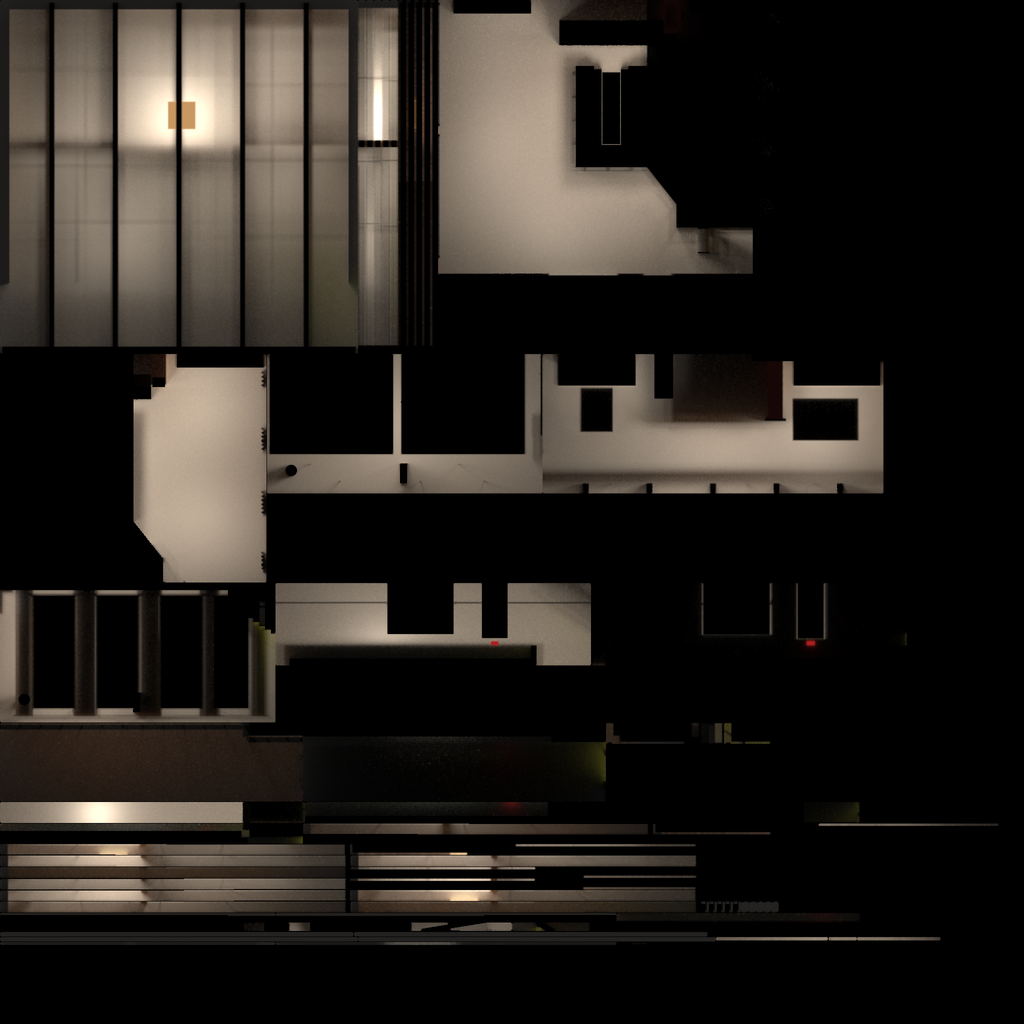
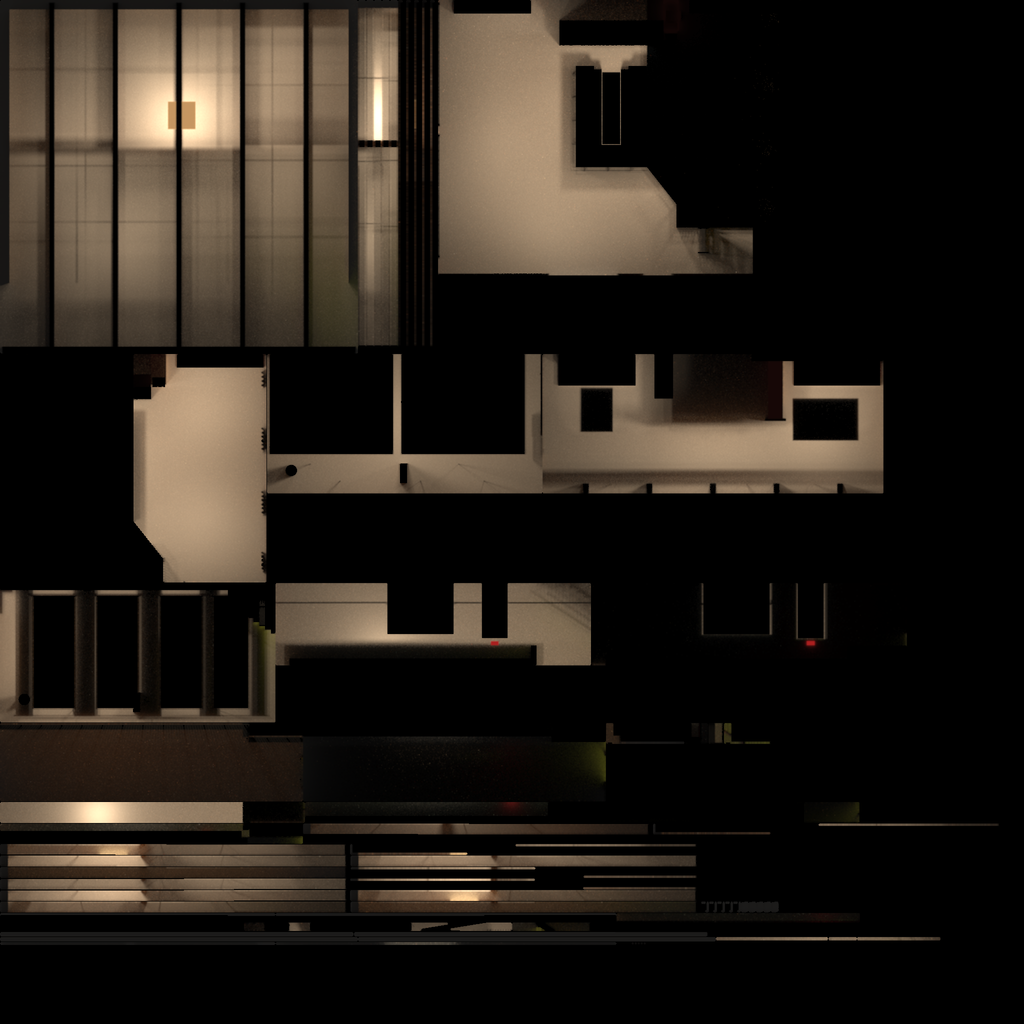
V2b: light rework: warm, deep evening; live shadows and placed lights on baked surfaces; bar contact shadows; a graphics setting that shows (LGT-03, LGT-01, PLT-05)
Owner (2026-10-19): the V2 evening was flat (uniform light brick, no warm bounce, missing bar shadows and AO, tone unlike R06/R08) and the graphics setting showed no difference.

- Baked surfaces: 8 % sky fill (was 35 %), 35 % of the live lights' direct light (was none).
- ACES filmic tone mapping; evening exposure 0.24, daylight 2.3.
- Evening bake at ~2400 K, crisper chandelier shadows, brighter, narrower track scallops and uplights, darker sky; warm evening tint on the buff brick.
- Evening key light from nearly overhead; contact shadows under the bar and back counter (instanced, no new draw).
- AO radius 0.55, stronger; full resolution and 4x MSAA with High on a desktop.

Claude-Session: https://claude.ai/code/session_011uuG6S5B44UFQf4qRyq7GE

diff --git a/src/scene/Studio3D.tsx b/src/scene/Studio3D.tsx
@@ -27,7 +27,7 @@ import {
   shadowDraws,
   uncapNextFrame,
 } from "./frames";
-import { BACKDROP, LED_GLOW, useMaterials } from "./materials";
+import { BACKDROP, BRICK_TINT, LED_GLOW, useMaterials } from "./materials";
 import { gradientTexture } from "./textures";
 import { BakeExport } from "./BakeExport";
 import { useBake } from "./useBake";
@@ -117,8 +117,10 @@ function Lighting({
       <directionalLight
         // A new tier's shadow size needs a new shadow map.
         key={shadowSize}
-        position={evening ? [W / 2 + 4, 14, D / 2 - 6] : [-12, 13, D / 2 - 3]}
-        intensity={evening ? 0.35 : 2.4}
+        // Evening: a warm light from nearly overhead, standing in for the chandeliers and track
+        // spots, so the bar and tables cast their shadows straight down (R06, R08).
+        position={evening ? [W / 2 + 1.5, 14, D / 2 - 1.5] : [-12, 13, D / 2 - 3]}
+        intensity={evening ? 1.1 : 2.4}
         color={evening ? "#ffdfc0" : "#fff4e6"}
         castShadow={shadowSize > 0}
         // Plan view is flat and high-contrast: no shadows (DESIGN_GUIDE §9).
@@ -189,15 +191,17 @@ function Effects({ evening, tier, quality }: { evening: boolean; tier: Tier; qua
   const moving = useStore(graphicsStore, (s) => s.moving);
   if (levers.direct) return null;
   const high = quality === "high";
+  // High draws its ambient occlusion at full resolution and smooths edges (V2b: the setting shows on
+  // a still picture, not only in motion); changing either rebuilds the effect passes once.
+  const best = tier === "high" && high;
   return (
-    // Multisampling by device too: changing it rebuilds every effect pass.
-    <EffectComposer multisampling={high ? 4 : 0}>
+    <EffectComposer multisampling={best ? 4 : 0}>
       <N8AO
         enabled={levers.ao === "live" || !moving}
-        aoRadius={0.7}
-        intensity={evening ? 2.2 : 1.6}
+        aoRadius={0.55}
+        intensity={evening ? 3.2 : 2.2}
         distanceFalloff={0.6}
-        halfRes
+        halfRes={!best}
       />
       <Bloom
         intensity={evening ? (high ? 0.75 : 0.7) : 0.15}
@@ -205,7 +209,7 @@ function Effects({ evening, tier, quality }: { evening: boolean; tier: Tier; qua
         luminanceSmoothing={high ? 0.2 : 0.03}
         mipmapBlur
       />
-      <ToneMapping mode={ToneMappingMode.AGX} />
+      <ToneMapping mode={ToneMappingMode.ACES_FILMIC} />
       <Vignette darkness={evening ? 0.42 : 0.2} offset={0.3} opacity={high ? 1 : 0} />
     </EffectComposer>
   );
@@ -425,11 +429,15 @@ function Scene({
   useEffect(() => {
     m.led.emissiveIntensity = evening ? LED_GLOW : 0;
     m.cap.emissiveIntensity = evening ? 0.12 : 0;
+    for (const brick of [m.brick, bake?.materials.brick])
+      (brick as THREE.MeshStandardMaterial | undefined)?.color.set(
+        evening ? BRICK_TINT.evening : BRICK_TINT.day,
+      );
     // Street sheers at night are lit only from inside: dimmer.
     m.sheer.opacity = evening ? 0.1 : 0.2;
     scene.backgroundIntensity = (evening ? BACKDROP.evening : BACKDROP.day).intensity;
     invalidate();
-  }, [m, scene, evening, invalidate]);
+  }, [m, bake, scene, evening, invalidate]);
   return (
     <>
       <primitive attach="background" object={background} />

diff --git a/src/scene/items/Contact.tsx b/src/scene/items/Contact.tsx
@@ -2,7 +2,8 @@ import * as THREE from "three";
 import { useEffect, useMemo } from "react";
 import { useThree } from "@react-three/fiber";
 import { chairsWorld } from "../../domain/layout/items";
-import { useView } from "../context";
+import type { VenueModel } from "../../domain/venue/model";
+import { useStudio, useView } from "../context";
 import { CONTACT_SPREAD, type Materials } from "../materials";
 import type { Placed } from "./common";
 
@@ -45,11 +46,40 @@ export function ContactShadows({ list, m }: { list: Contact[]; m: Materials }) {
   return <primitive object={mesh} />;
 }
 
-/** Contact shadows under the tables and their chairs; pieces being dragged are lifted, so none. */
+/**
+ * Contact shadows where the bar and the back counter meet the floor (V2b, Grounded). Long runs are a
+ * row of near-square shadows, so their soft edges fall only at the sides.
+ */
+function venueContacts(venue: VenueModel): Contact[] {
+  const [x0, z0, x1, z1] = venue.data.bar.outer.value;
+  const { legWidth: leg, frontDepth: front } = venue.data.bar;
+  const rc = venue.data.backBar.rearCounter;
+  const out: Contact[] = [];
+  const run = (ax: number, az: number, bx: number, bz: number) => {
+    const along = bx - ax > bz - az;
+    const [len, wid] = along ? [bx - ax, bz - az] : [bz - az, bx - ax];
+    const n = Math.max(1, Math.round(len / (wid * 1.2)));
+    for (let i = 0; i < n; i++) {
+      const c = -len / 2 + (len * (i + 0.5)) / n;
+      const [x, z] = along ? [(ax + bx) / 2 + c, (az + bz) / 2] : [(ax + bx) / 2, (az + bz) / 2 + c];
+      const [w, d] = along ? [len / n, wid] : [wid, len / n];
+      out.push({ x, z, y: 0, rotY: 0, w, d });
+    }
+  };
+  run(x0, z0, x0 + leg, z1);
+  run(x1 - leg, z0, x1, z1);
+  run(x0 + leg, z1 - front, x1 - leg, z1);
+  run(rc[0], rc[1], rc[2], rc[3]);
+  return out;
+}
+
+/** Contact shadows under the bar, the tables and their chairs; pieces being dragged are lifted, so none. */
 export function TableContacts({ placed, m }: { placed: Placed[]; m: Materials }) {
   const drag = useView((s) => s.drag);
+  const { venue } = useStudio();
+  const fixed = useMemo(() => venueContacts(venue), [venue]);
   const list = useMemo(() => {
-    const out: Contact[] = [];
+    const out: Contact[] = [...fixed];
     for (const p of placed) {
       if (drag?.ids.includes(p.item.id)) continue;
       const s = p.shape;
@@ -62,7 +92,7 @@ export function TableContacts({ placed, m }: { placed: Placed[]; m: Materials })
       for (const ch of chairsWorld(p.item, s)) out.push({ ...ch, y: p.y, w: SMALL, d: SMALL });
     }
     return out;
-  }, [placed, drag]);
+  }, [placed, drag, fixed]);
   return <ContactShadows list={list} m={m} />;
 }
 

diff --git a/src/scene/venue/bake.ts b/src/scene/venue/bake.ts
@@ -121,15 +121,21 @@ export function bakeAtlas(
 }
 
 /**
- * Share of the live ambient (sky) light a baked surface keeps: faces the bake leaves dark (a cut
- * wall's outer face, seen from the dollhouse) never turn into black pockets.
+ * Share of the live ambient (sky) light a baked surface keeps: just enough that faces the bake leaves
+ * dark (a cut wall's outer face, seen from the dollhouse) are not black, without flattening the
+ * bake's own falloff (V2b).
  */
-const BAKED_AMBIENT = 0.35;
+const BAKED_AMBIENT = 0.08;
+/**
+ * Share of the live lights' direct light a baked surface keeps (V2b): live shadows and the couple's
+ * placed lights show on the floor and walls, and the graphics tiers' shadows show there too.
+ */
+const LIVE_SHARE = 0.35;
 
 /**
- * A receiver's material with the light map: its diffuse light comes from the map (the live lights'
- * direct diffuse is dropped, as the bake holds it, and only `BAKED_AMBIENT` of the sky's), while live
- * highlights and reflections stay. Any shader patch the source has (`vary`) is kept.
+ * A receiver's material with the light map: its diffuse light comes mostly from the map, with
+ * `LIVE_SHARE` of the live lights' and `BAKED_AMBIENT` of the sky's; live highlights and reflections
+ * stay. Any shader patch the source has (`vary`) is kept.
  */
 export function bakedMaterial(
   src: THREE.MeshStandardMaterial,
@@ -144,7 +150,7 @@ export function bakedMaterial(
     src.onBeforeCompile(s, r);
     s.fragmentShader = s.fragmentShader.replace(
       "#include <lights_fragment_maps>",
-      `irradiance *= ${BAKED_AMBIENT.toFixed(2)};\nreflectedLight.directDiffuse = vec3(0.0);\n#include <lights_fragment_maps>\niblIrradiance = vec3(0.0);`,
+      `irradiance *= ${BAKED_AMBIENT.toFixed(2)};\nreflectedLight.directDiffuse *= ${LIVE_SHARE.toFixed(2)};\n#include <lights_fragment_maps>\niblIrradiance = vec3(0.0);`,
     );
   };
   return b;

diff --git a/src/scene/materials.ts b/src/scene/materials.ts
@@ -119,6 +119,11 @@ export const LED_GLOW = 1.0;
 
 /** A contact shadow's plane is this many times the footprint it darkens. */
 export const CONTACT_SPREAD = 1.6;
+/**
+ * The buff brick's tint by day and in the evening (V2b): under the venue's warm light at night it
+ * reads orange-brown in R06 and R08, not pale beige.
+ */
+export const BRICK_TINT = { day: "#f4ebdd", evening: "#e3a77e" } as const;
 
 /** The plinth's shadow plane is this many times its size (`softShadowTexture`). */
 export const SHADOW_SPREAD = 1.25;
@@ -157,7 +162,7 @@ export function useMaterials(quality: Quality) {
           map: tex.brickDiff,
           normalMap: tex.brickNor,
           roughnessMap: tex.brickRough,
-          color: "#f4ebdd",
+          color: BRICK_TINT.day,
           roughness: 1,
         }),
         0.12,

diff --git a/src/scene/useBake.ts b/src/scene/useBake.ts
@@ -19,7 +19,7 @@ export type Bake = { atlas: Atlas; materials: Partial<Materials> };
  * Brightness of each set on top of the bake's own scale: the evening and daylight calibration
  * against the reference photos (V2).
  */
-const EXPOSURE: Record<(typeof BAKE_SETS)[number], number> = { evening: 0.3, day: 2.6 };
+const EXPOSURE: Record<(typeof BAKE_SETS)[number], number> = { evening: 0.24, day: 2.3 };
 
 /**
  * Plan view is flat (DESIGN_GUIDE §9): an even light map in place of the bake, still bound, so

diff --git a/tools/blender/bake_room.py b/tools/blender/bake_room.py
@@ -44,7 +44,8 @@ room = bpy.context.active_object
 lightmap_uv = room.data.uv_layers[1].name
 print("receivers joined", len(room.data.polygons), "faces;", round(time.time() - t0), "s")
 
-warm = (1.0, 0.83, 0.64)
+# About 2400 K: the venue at night is amber, not neutral (R06, R08; V2b).
+warm = (1.0, 0.72, 0.45)
 
 
 def add_light(name, kind, loc, watts, color=warm, radius=0.2, target=None, angle=None, blend=0.6):
@@ -71,13 +72,13 @@ f = V["fixtures"]
 if MODE == "evening":
     # The venue's own light (R06, R08, UV01): chandeliers, pendant drums, track washes on the brick,
     # the lit back bar; a faint night sky through the glass.
-    bg.inputs["Color"].default_value = (0.05, 0.046, 0.042, 1)
+    bg.inputs["Color"].default_value = (0.03, 0.028, 0.026, 1)
     bg.inputs["Strength"].default_value = 1.0
     for c in f["chandeliers"]:
         if c["kind"] == "brassCluster":
-            add_light("brass", "POINT", B(c["x"], (c["bottom"] + c["top"]) / 2, c["z"]), 1100, radius=1.0)
+            add_light("brass", "POINT", B(c["x"], (c["bottom"] + c["top"]) / 2, c["z"]), 1000, radius=0.45)
         else:
-            add_light("cage", "POINT", B(c["x"], c["bottom"] + 0.6, c["z"]), 320, radius=0.6)
+            add_light("cage", "POINT", B(c["x"], c["bottom"] + 0.6, c["z"]), 300, radius=0.3)
     for row in f["pendantRows"]:
         for i in range(row["count"]):
             x = row["x0"] + (row["x1"] - row["x0"]) * i / max(1, row["count"] - 1)
@@ -85,7 +86,7 @@ if MODE == "evening":
     # Track spots on the north brick, either side of the back bar: scallops of light with dark
     # gaps between them (R01, R08), not an even wash.
     for x in (1.6, 3.0, 4.4, 11.6, 13.2, 14.8):
-        add_light("track", "SPOT", B(x, C - 0.6, 1.8), 60, target=B(x, 2.6, 0.0), angle=36, blend=0.7)
+        add_light("track", "SPOT", B(x, C - 0.6, 1.8), 95, target=B(x, 2.6, 0.0), angle=30, blend=0.55)
     # Warm uplights washing the brick piers between the street windows (R05, R10).
     east = next(w for w in V["walls"] if w["id"] == "east")
     edges = [0.0] + [e for o in sorted(east["openings"], key=lambda o: o["start"]) for e in (o["start"], o["end"])] + [D]
@@ -93,10 +94,10 @@ if MODE == "evening":
         if b - a < 0.3:
             continue
         z = (a + b) / 2
-        add_light("uplight", "SPOT", B(W - 0.25, 0.15, z), 150, target=B(W, 2.5, z), angle=40, blend=0.8)
+        add_light("uplight", "SPOT", B(W - 0.25, 0.15, z), 200, target=B(W, 2.5, z), angle=36, blend=0.7)
     bb = V["backBar"]["rect"]["value"]
     # The lit back bar, brighter than the brick (R01 R03 R08): a soft source facing its shelves.
-    back = add_light("backbar", "AREA", B((bb[0] + bb[2]) / 2, 2.0, bb[3] + 0.15), 420, color=(1.0, 0.86, 0.68))
+    back = add_light("backbar", "AREA", B((bb[0] + bb[2]) / 2, 2.0, bb[3] + 0.15), 420, color=(1.0, 0.8, 0.58))
     back.shape = "RECTANGLE"
     back.size, back.size_y = bb[2] - bb[0], 1.6
     bpy.data.objects["backbar"].rotation_euler = (math.radians(90), 0, 0)

diff --git a/docs/ARCHITECTURE.md b/docs/ARCHITECTURE.md
@@ -133,13 +133,13 @@ The inspector builds its controls from `options`, and library captions from the 
 ## 5. Rendering
 
 - **Venue shell:** generated meshes from venue data; PBR materials with tiling textures (CC0, provenance in `public/assets/LICENSES.md`) or procedural textures.
-- **Lighting (ADR-2):** hybrid (visual stage V2). The fixed room's large surfaces (walls, floors, ceiling, mezzanine edge: `scene/venue/bake.ts`) carry baked light maps, evening and daylight, made in Blender by `npm run bake` (`tools/README.md`). Their light-map UVs are computed in the app (`scene/venue/lightmap.ts`: flat islands packed at one density), the same at export and at load, so the dollhouse's cut walls reuse the full walls' bake and nothing but the maps ships. The manifest (`data/bake/manifest.json`, passed in by `app/boot.ts`) holds fingerprints of the room's surfaces and light inputs; on a mismatch the room is drawn live-lit, and CI fails (`[LGT-03]`). Baked materials take their diffuse light from the map only and keep live highlights and reflections; everything movable, and every placed light, stays live, with soft contact shadows under tables, chairs and standing guests. Evening: hemisphere + a few shadow-free fill lights, one shadow-casting key light, emissive chandeliers/back bar/candles with selective bloom, N8AO ambient occlusion, ACES/AgX tone mapping. Daylight: soft sky + key light.
+- **Lighting (ADR-2):** hybrid (visual stage V2). The fixed room's large surfaces (walls, floors, ceiling, mezzanine edge: `scene/venue/bake.ts`) carry baked light maps, evening and daylight, made in Blender by `npm run bake` (`tools/README.md`). Their light-map UVs are computed in the app (`scene/venue/lightmap.ts`: flat islands packed at one density), the same at export and at load, so the dollhouse's cut walls reuse the full walls' bake and nothing but the maps ships. The manifest (`data/bake/manifest.json`, passed in by `app/boot.ts`) holds fingerprints of the room's surfaces and light inputs; on a mismatch the room is drawn live-lit, and CI fails (`[LGT-03]`). Baked materials take their diffuse light mostly from the map, with a share of the live lights' (so live shadows and placed lights show on the floor and walls) and a little of the sky's, and keep live highlights and reflections; everything movable, and every placed light, stays live, with soft contact shadows under the bar, back counter, tables, chairs and standing guests. Evening: about 2400 K light in the bake, a warm tint on the buff brick, hemisphere + a few shadow-free fill lights, one shadow-casting key light from nearly overhead, emissive chandeliers/back bar/candles with selective bloom, N8AO ambient occlusion, ACES filmic tone mapping. Daylight: soft sky + key light.
 - **Dollhouse cutaway:** walls whose normal faces the camera switch to a low cut height with a cap mesh; ceiling layer hidden; recomputed on camera move (cheap dot-product test per wall).
 - **Frames on demand (visual stage V0):** the canvas draws only when something changes (`frameloop="demand"`); camera animations, walking and the compare view ask for frames while they move. The one shadow-casting light is fixed, so its shadow map is redrawn only when the room's contents change (plan, drag, guests, cut-away walls), never for a camera move (`scene/frames.tsx`).
 - **No shader compiles after load:** the light set is the same in every view and lighting (unused lights are dimmed to zero, plan view hides its shadow instead of dropping it); parts a view does not show are hidden, not unmounted; lines keep their material when their points change (`scene/items/Line.tsx`); every shader, hidden parts and occasional lines included, is compiled on the second frame for the effects' linear buffer.
 - **Instancing:** chairs, people, candles, glasses use `InstancedMesh` per type and level of detail.
 - **Device weight (PLT-03):** phones and touch-first tablets load the lighter models (`lowModel`, fewer segments) and two chandelier lights instead of all (`scene/quality.ts`, `?quality=` for tests). It never changes at run time.
-- **Graphics tiers** (`state/graphics.ts`, VISUAL_STATUS.md "Graphics tiers"): High, Balanced and Battery saver trim polish only — resolution while moving and still, frame cap, ambient occlusion, bloom on or off, shadow size; multisampling, bloom strength and vignette follow the device (changing them at run time rebuilds every effect pass). Auto (default) starts at High on a desktop and Balanced on a phone, steps down after ~2 s of slow frames during motion and up after a sustained good run (never back to a tier it left), remembers its tier per device, and changes tier only while the view is still. Battery saver (phones) draws without effects at ≤ 30 fps. One frame clock in the main view times only frames inside a motion (not the first after a pause, not the still frame). The compare halves draw at Balanced's moving resolution. The couple's choice (PLT-05, Room › This device › Graphics) is kept per device; `?tier=` forces a tier for tests.
+- **Graphics tiers** (`state/graphics.ts`, VISUAL_STATUS.md "Graphics tiers"): High, Balanced and Battery saver trim polish only — resolution while moving and still, frame cap, ambient occlusion (and its resolution: full on High), bloom on or off, shadow size, multisampling (High on a desktop only; a tier change rebuilds the effect passes once); bloom strength and vignette follow the device. Auto (default) starts at High on a desktop and Balanced on a phone, steps down after ~2 s of slow frames during motion and up after a sustained good run (never back to a tier it left), remembers its tier per device, and changes tier only while the view is still. Battery saver (phones) draws without effects at ≤ 30 fps. One frame clock in the main view times only frames inside a motion (not the first after a pause, not the still frame). The compare halves draw at Balanced's moving resolution. The couple's choice (PLT-05, Room › This device › Graphics) is kept per device; `?tier=` forces a tier for tests.
 - **Static merge:** venue parts that never change with the camera (floors, railing, bar, back bar, furnishings) are drawn as one mesh per material (`scene/venue/merge.tsx`), rebuilt only when their inputs change.
 - **Measurement:** `?perf` shows frame times during motion, draw calls, triangles, a GPU memory estimate and the tier, with the benchmark cameras (dollhouse, `benchEye`) and Copy. `?bench=sample|ppl03` opens a benchmark scene on a fresh session (`app/bench.ts`).
 - **Walk collisions:** 2D circle-vs-polygon against level colliders; no physics engine (ADR-5).

diff --git a/VISUAL_STATUS.md b/VISUAL_STATUS.md
@@ -100,7 +100,7 @@ One pull request per stage, with the Vercel preview. Stopping after any stage le
 
 - Frames on demand, shadows redrawn only when the room's contents change, the same light set in every view, parts hidden rather than unmounted, every shader compiled at load: 0 frames while still and 0 compiles on view, lighting, menu and selection switches (CI, both device weights), and none after a tier change.
 - Tiers High, Balanced, Battery saver with Auto (`state/graphics.ts`); the compare halves draw at Balanced's moving resolution. The setting is built as the approved mock-up (`docs/mockups/graphics.html`, owner 2026-10-18; PLT-05): Room › This device › Graphics, kept per device.
-- Lever differences from the table, decided in the build: bloom keeps one resolution in every tier, and multisampling, bloom strength and vignette follow the device as before (changing either at run time rebuilds every effect pass, a stall of its own); "Décor and people detail" follows the device (phones load the lighter models, PLT-03), since Auto never changes models. Light maps, textures and the reflection capture levers come with V1 and V2.
+- Lever differences from the table, decided in the build: bloom keeps one resolution in every tier, and bloom strength and vignette follow the device as before; multisampling and full-resolution ambient occlusion come with High on a desktop (V2b, owner: the setting must show on a still picture; a tier change rebuilds the effect passes once); "Décor and people detail" follows the device (phones load the lighter models, PLT-03), since Auto never changes models. Light maps, textures and the reflection capture levers come with V1 and V2.
 - Static venue parts (floors, railing, bar, back bar, furnishings) merged per material.
 - `?perf` overlay with Copy and the two benchmark cameras (dollhouse, `benchEye`); `?bench=sample|ppl03` opens a benchmark scene on a fresh session.
 - `tools/`: the Blender and Meshy scripts, `check-assets` (in CI; 0 GLBs today, every piece is parametric) and `optimize` (glTF Transform, meshopt). Headless Blender verified: `pip install bpy` runs `mesh_audit.py` (45 open edges on the Meshy man, as the checker also finds).
@@ -219,6 +219,19 @@ The Balanced still frame on PPL-03 can reach ≈ 155 draw calls (its ambient-occ
 - Reviews: `ux-reviewer` (1 blocker, 4 majors) and `fidelity-reviewer` (black wall tops and cut-wall faces, brick outshining the back bar, cold daylight) all addressed and re-baked; the colour check passes on the cloth drops.
 - Owner changes folded into V2 (2026-10-18), re-baked: the dollhouse lens is 20° (the `?lens=narrow` A/B is gone); the garage-door (west) wall has a red-brick dado under buff brick like the back-bar wall; the back bar stands 0.9 m off the north wall with a passage behind it (closed at its east end by the wine wall), the bar island's back end moving inland with it (front unchanged); the restroom corridor door sits half behind the back bar's west end (x 5.2–6.15). Also fixed: the back-bar bottles, hidden since V0 by the static merge (instanced meshes are now drawn outside it).
 - Not done in V2: the box-projected reflection capture and an HDR daylight environment (the light-former environment stays; neither review asked for them); calibration camera presets matching R08 and U02 (U02 is not in the local cache). The fixed bar, back bar and stair are in the bake as occluders, so their floor shadows are baked.
+
+### V2b: Light rework (owner, 2026-10-19)
+
+**Why:** the owner found the V2 evening flat: uniform light brick, no warm bounce, missing bar shadows and ambient occlusion, a night tone unlike R06/R08, and a graphics setting that showed no difference.
+
+**Built:**
+
+- Baked surfaces keep 8 % of the sky light (was 35 %, a uniform fill that flattened the bake's falloff) and 35 % of the live lights' direct light (was none), so live shadows and the couple's placed lights show on the floor and walls.
+- ACES filmic tone mapping (AgX greyed the warm light); evening exposure 0.24, daylight 2.3.
+- Evening bake at about 2400 K, crisper chandelier shadows (smaller sources), narrower and brighter track scallops on the north brick, brighter pier uplights, a darker night sky; the buff brick takes a warm tint in the evening (`BRICK_TINT`).
+- The evening key light from nearly overhead, so the bar and tables cast their shadows straight down; soft contact shadows under the bar and back counter, in the existing instanced draw.
+- Ambient occlusion stronger and tighter (radius 0.55 m); full resolution and 4× multisampling with High on a desktop, so the setting shows on a still picture.
+- Budget: ppl03 Balanced stays at 149 draw calls (≤ 150).
 
 ### V3: Bar and back bar
 
